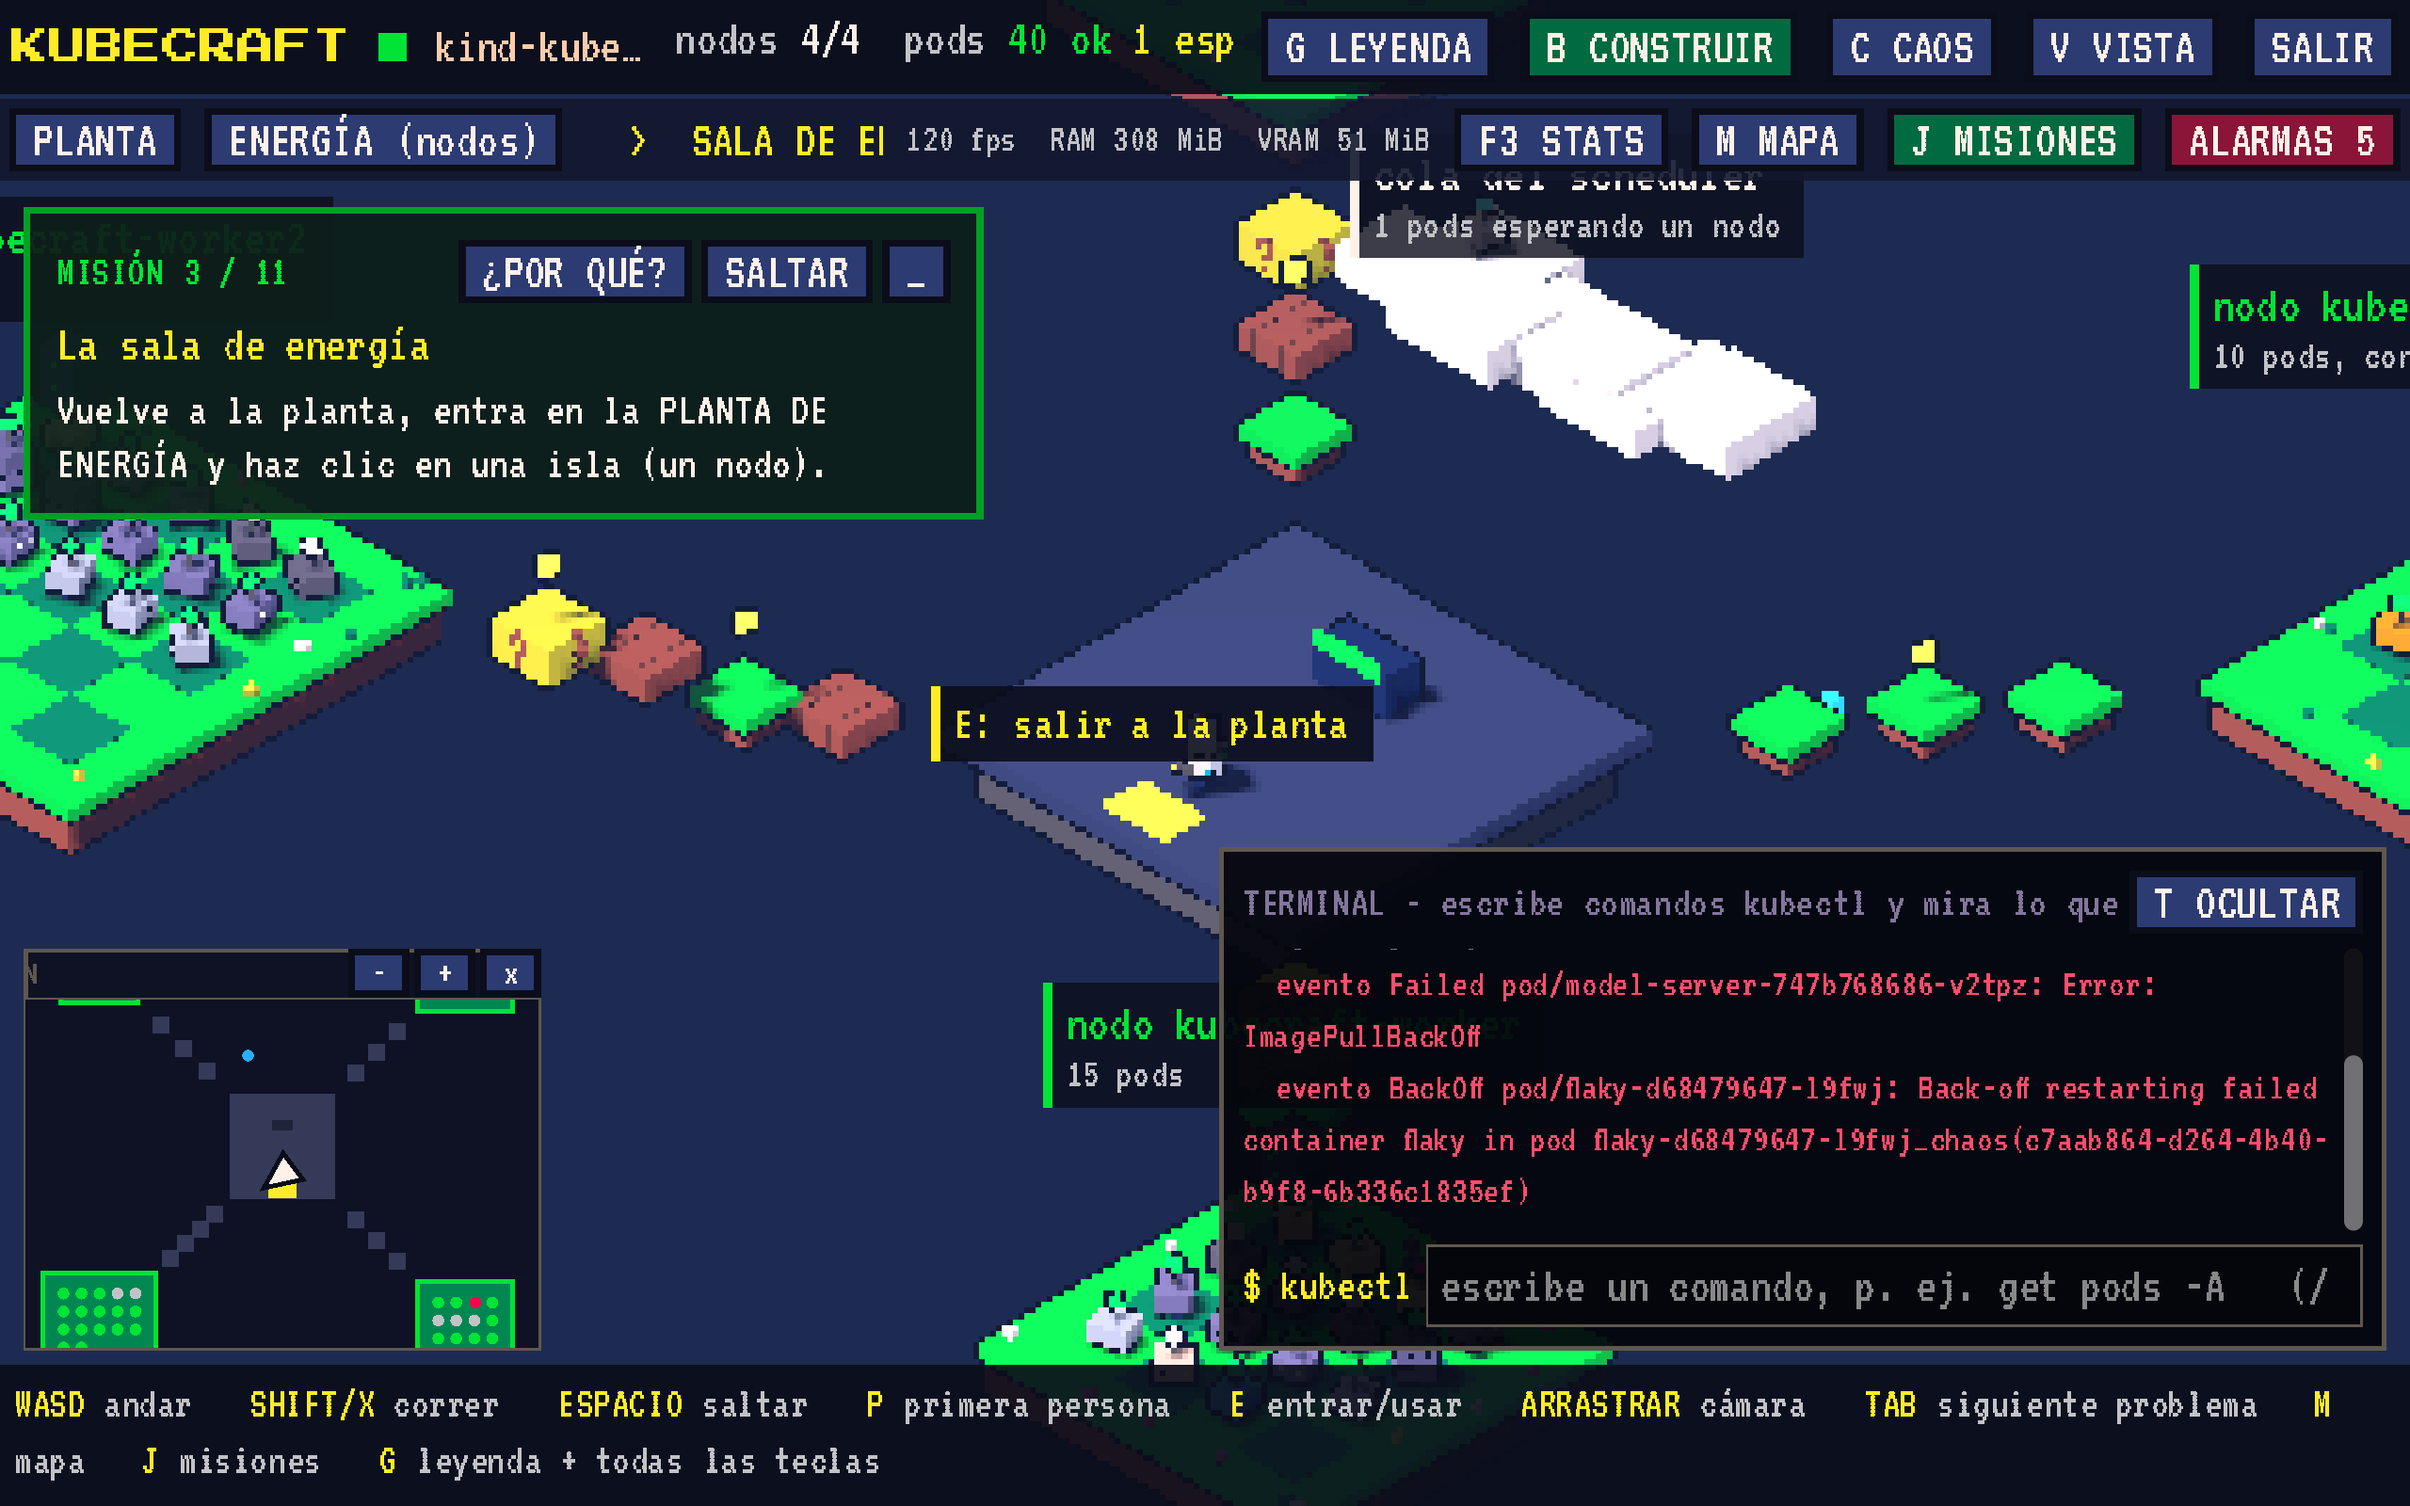
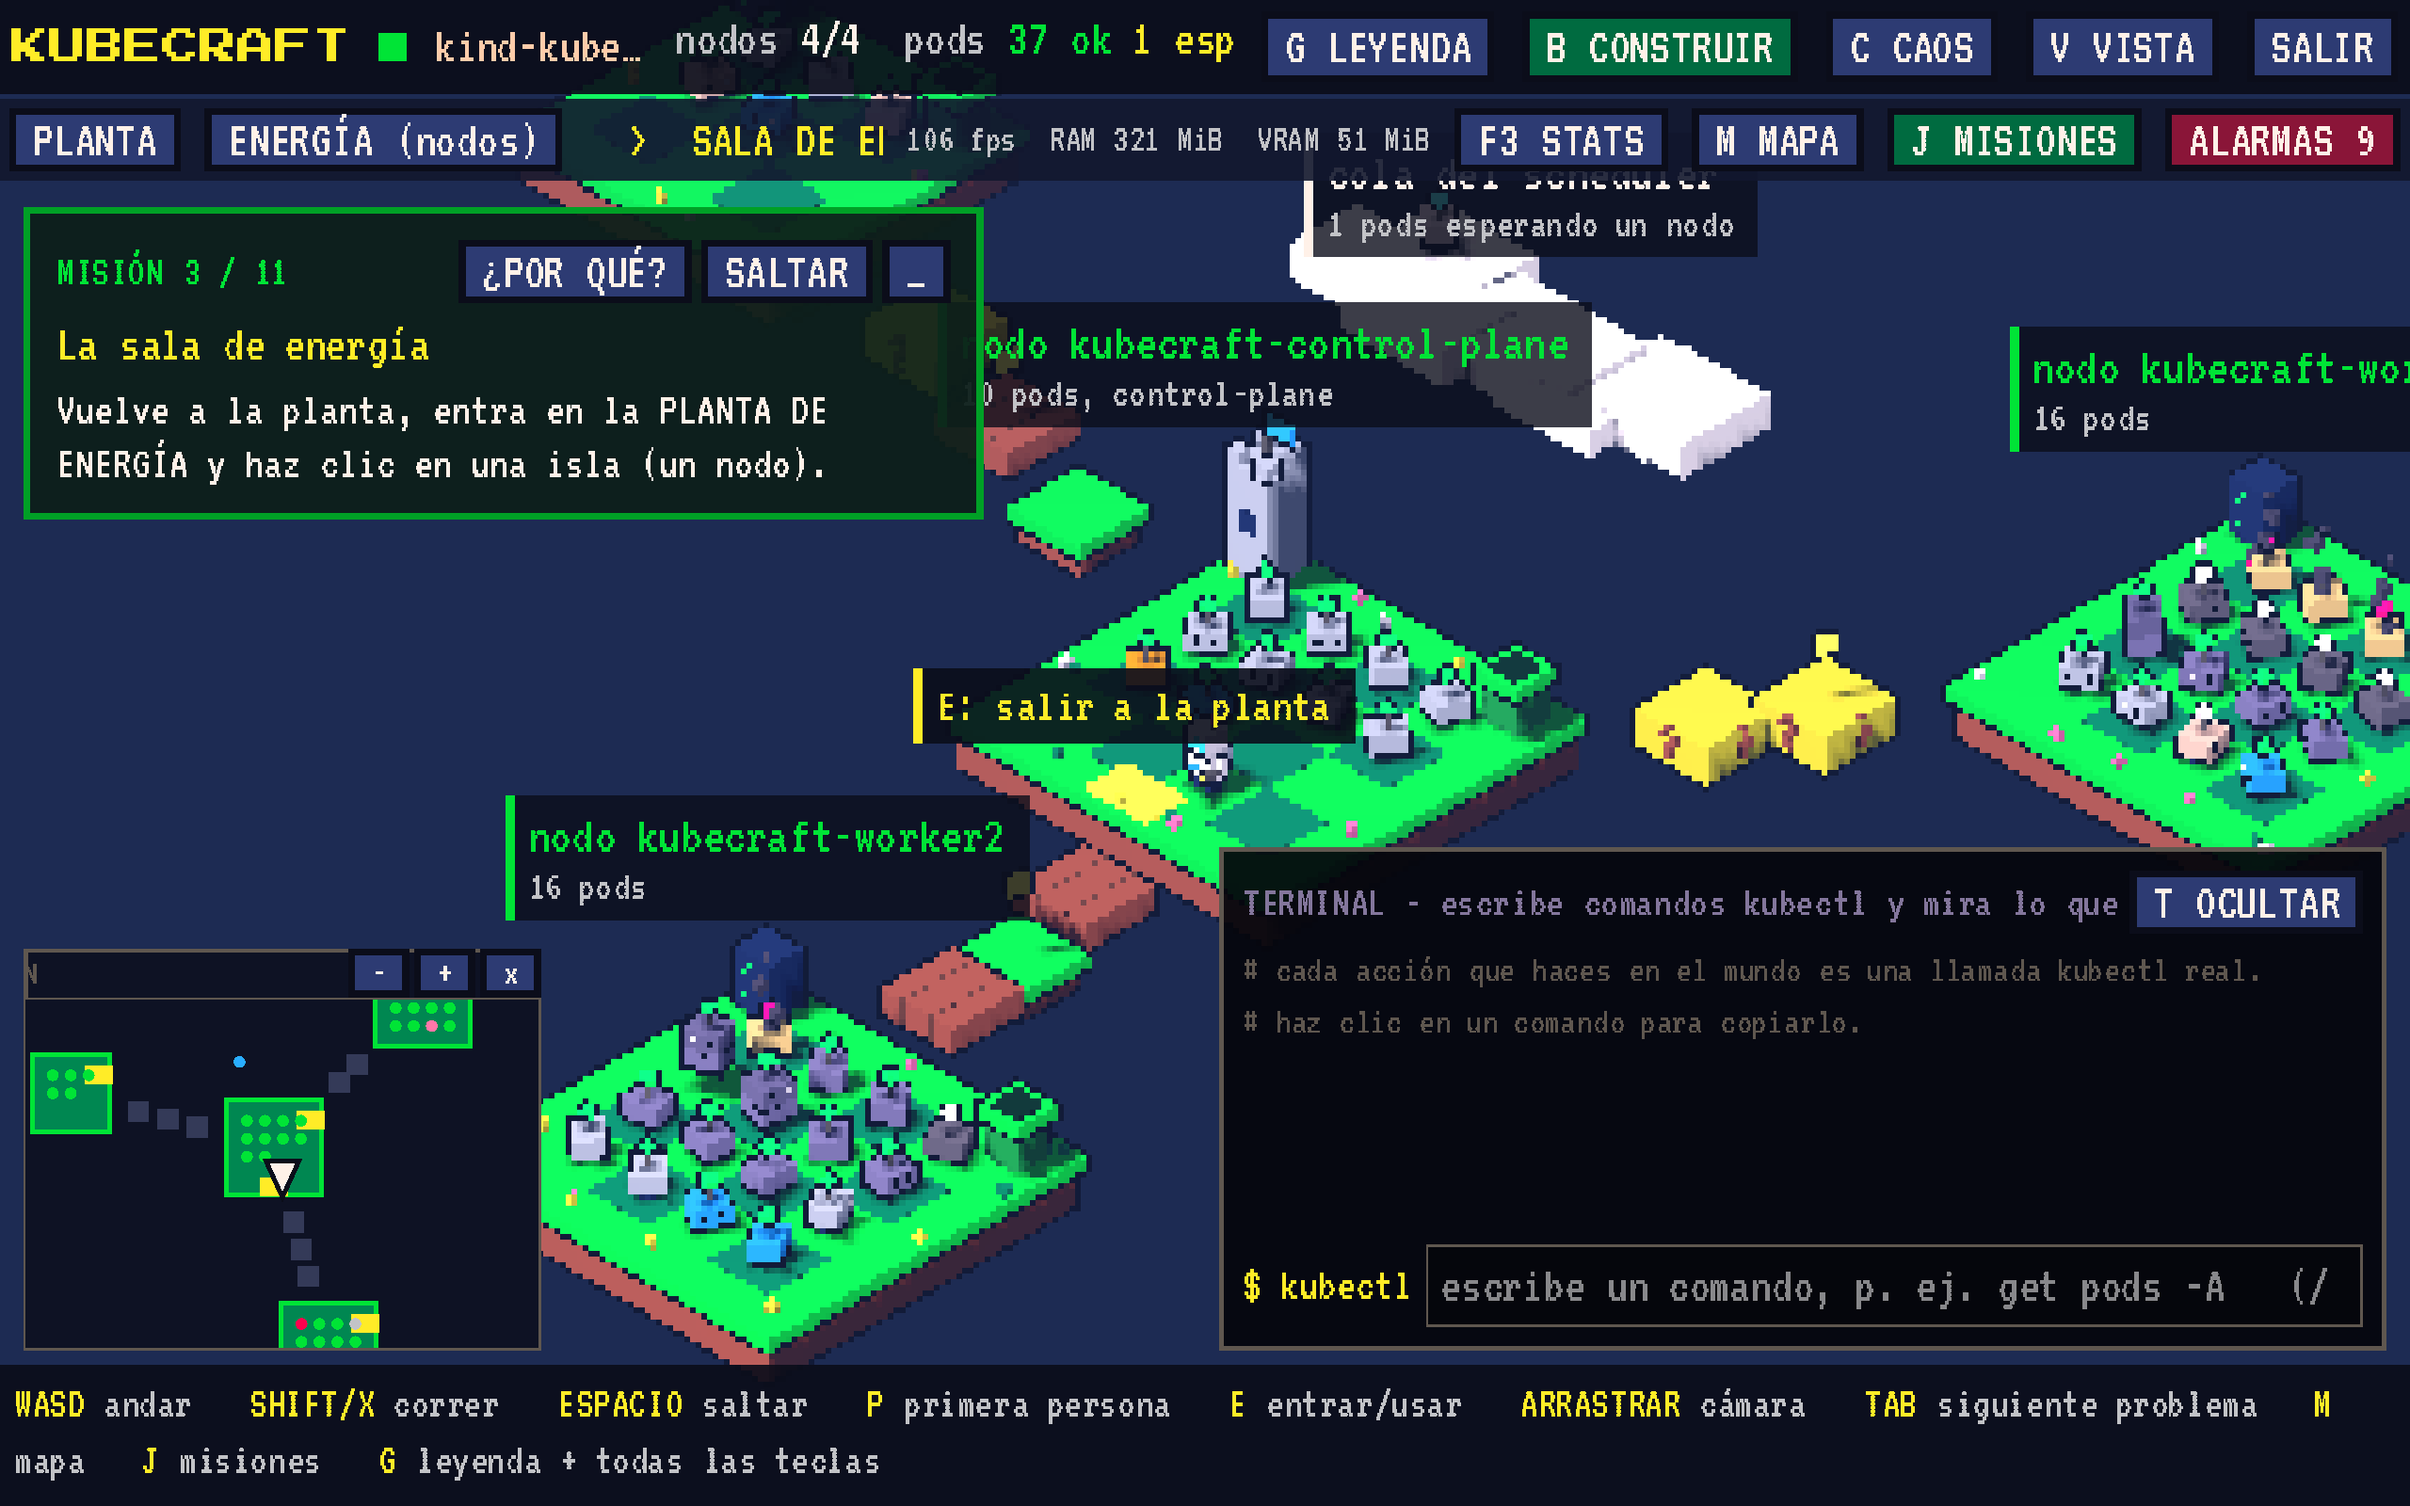
feat: control-plane at the centre of the energy room, warp pipes
- The control-plane island is the room's centre and spawn point; workers
  orbit it (neutral hub when the control-plane is hidden)
- Warp pipes on every island (E) chain centre -> workers -> centre
- Easier platforming: higher jump, bigger stones, shorter gaps, coyote
  time, jump buffering, respawn on the last safe platform

diff --git a/README.md b/README.md
@@ -50,7 +50,7 @@ Tu contexto actual de kubectl no cambia.
 
 ## Sala de energía estilo Mario
 
-Los nodos son islas flotantes a distintas alturas. Para llegar hay que **saltar** por bloques "?", ladrillos y plataformas (algunas suben y bajan), recogiendo monedas. Si caes al vacío vuelves al centro. La física es vertical de verdad: los bordes de una plataforma más alta hacen de pared y la sombra marca dónde vas a caer. Un test comprueba que cada isla es alcanzable con el salto del personaje.
+El **control-plane** es la isla central y es donde apareces; los workers orbitan a su alrededor a distintas alturas. Si el cluster no expone su control-plane (EKS, GKE...), el centro es una plataforma neutra. Cada isla tiene una **tubería warp** (E junto a ella) que te lleva a la siguiente isla sin tener que saltar. Para ir a pie hay que **saltar** por bloques "?", ladrillos y plataformas (algunas suben y bajan), recogiendo monedas. Si caes al vacío vuelves a la última plataforma donde estuviste. Hay *coyote time* (puedes saltar un instante después de salir del borde) y el salto pulsado justo antes de aterrizar también cuenta. La física es vertical de verdad: los bordes de una plataforma más alta hacen de pared y la sombra marca dónde vas a caer. Un test comprueba que cada isla es alcanzable con el salto del personaje.
 
 ## Misiones (J)
 
